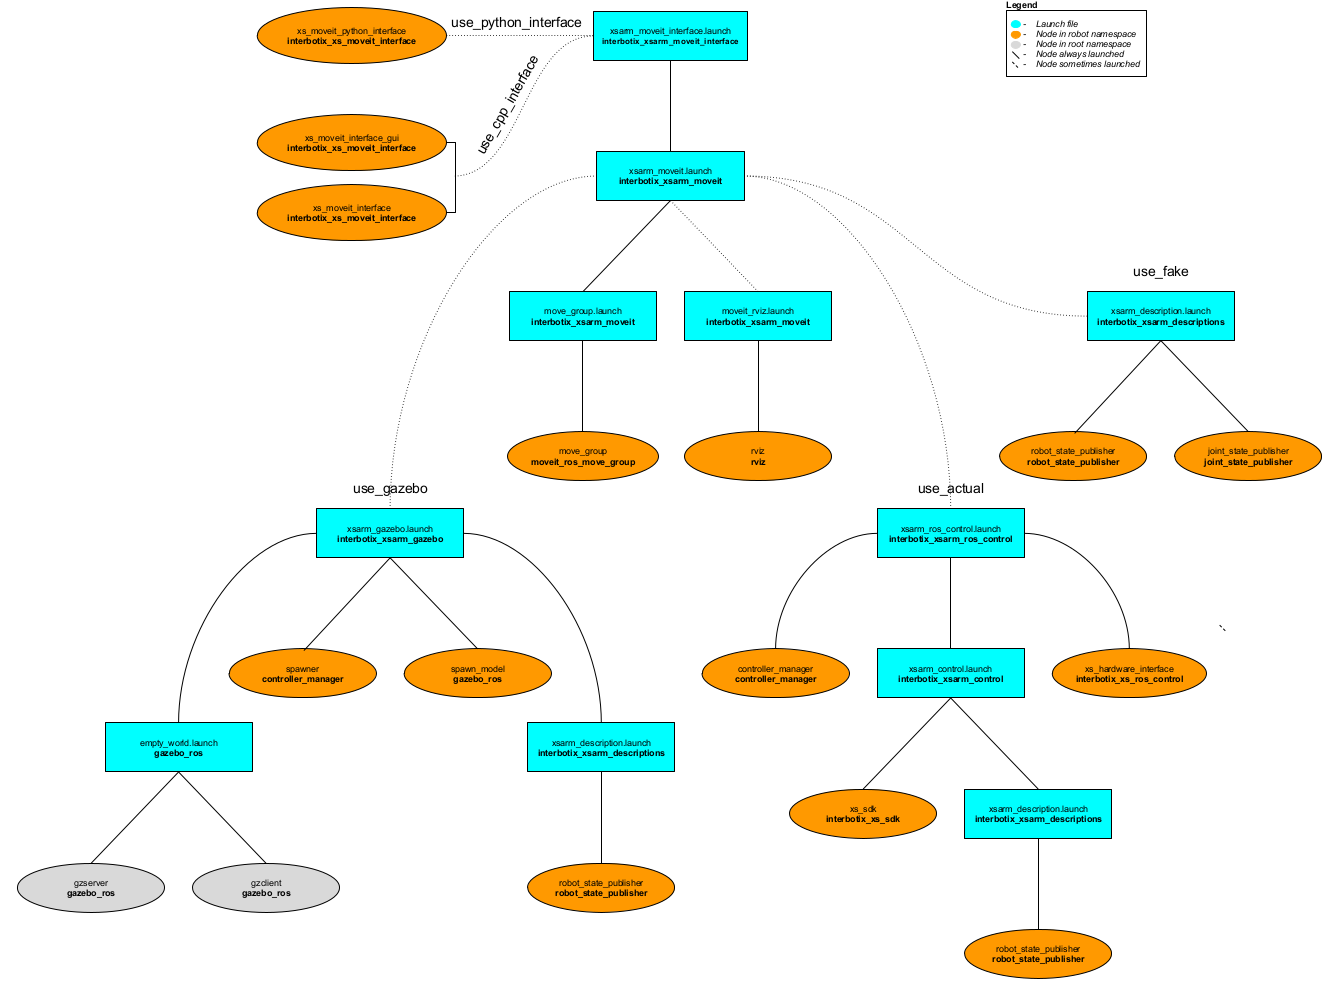
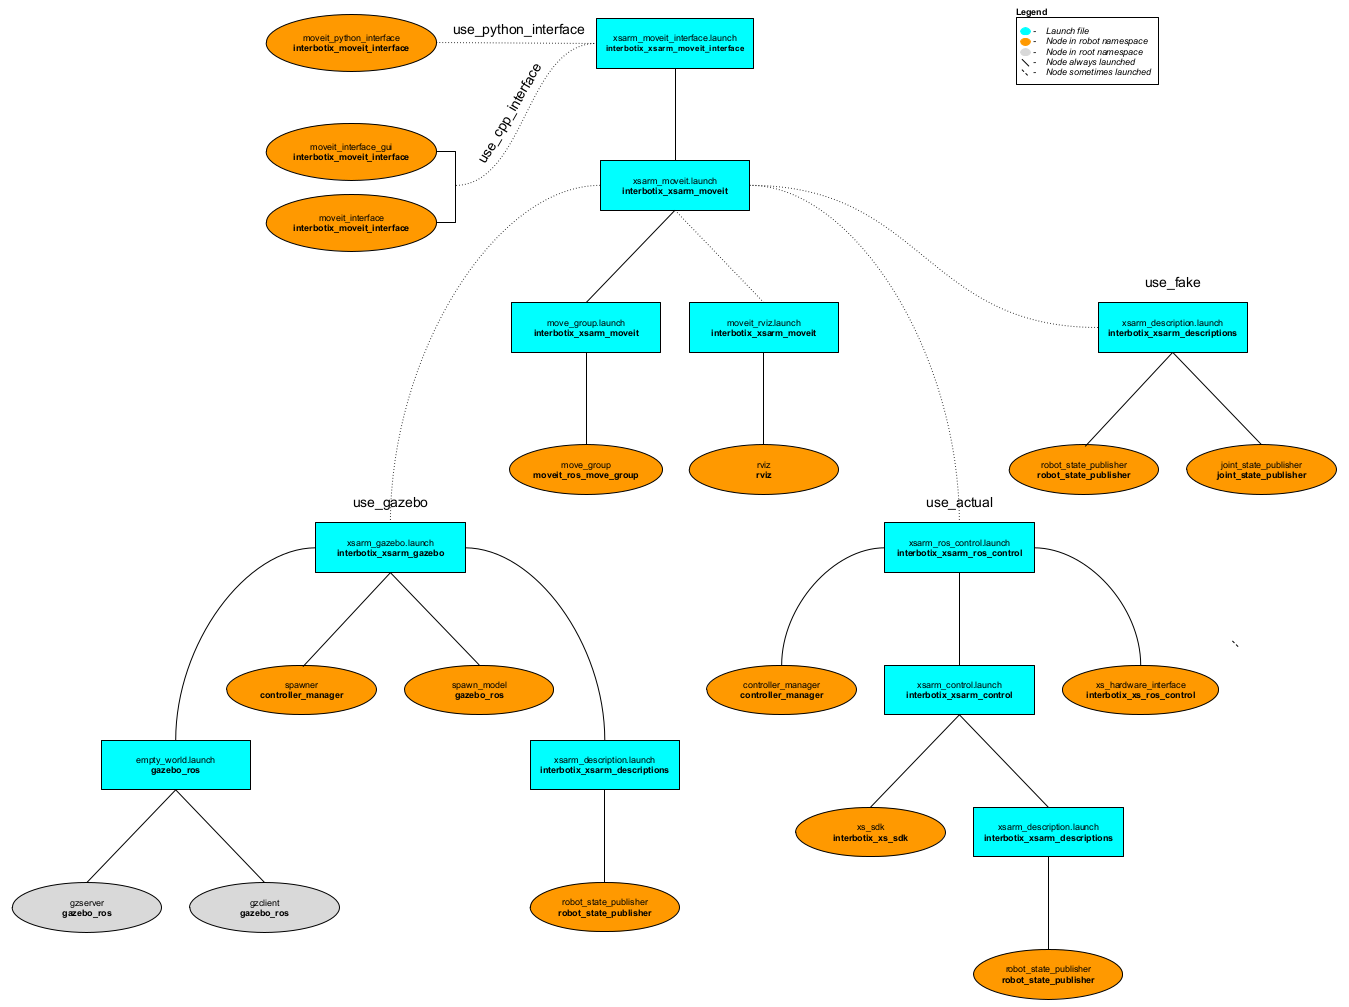
Changed dependency on the interbotix_xs_moveit_interface package to be instead on the interbotix_moveit_interface package. The interbotix_moveit_interface package is essentially the same thing as the interbotix_xs_moveit_interface package, but instead of only being able to be used on X-Series robot 

diff --git a/interbotix_ros_xsarms/examples/interbotix_xsarm_moveit_interface/README.md b/interbotix_ros_xsarms/examples/interbotix_xsarm_moveit_interface/README.md
@@ -8,11 +8,11 @@ Finally, this package also contains a modified version of the [Move Group Python
 ## Structure
 ![xsarm_moveit_interface_flowchart](images/xsarm_moveit_interface_flowchart.png)
 As shown above, this package builds on top of of the *interbotix_xsarm_moveit* package. To get familiar with that package, please refer to its README. The *interbotix_xsarm_moveit_interface* nodes are described below:
-- **xs_moveit_interface** - a small C++ API that makes it easier for a user to command custom poses to the end-effector of an Interbotix arm; it uses MoveIt's planner behind the scenes to generate desired joint trajectories;
-- **xs_moveit_interface_gui** - a GUI (modeled after the one in the *joint_state_publisher_gui* package) that allows a user to enter in desired end-effector poses via text fields or sliders; it uses the **xs_moveit_interface** API to plan and execute trajectories
-- **xs_moveit_python_interface** - a modified version of the script used in the [Move Group Python Interface](http://docs.ros.org/kinetic/api/moveit_tutorials/html/doc/move_group_python_interface/move_group_python_interface_tutorial.html) tutorial that is meant to work with an Interbotix arm; just press 'Enter' in the terminal to walk through the different steps
+- **moveit_interface** - a small C++ API that makes it easier for a user to command custom poses to the end-effector of an Interbotix arm; it uses MoveIt's planner behind the scenes to generate desired joint trajectories;
+- **moveit_interface_gui** - a GUI (modeled after the one in the *joint_state_publisher_gui* package) that allows a user to enter in desired end-effector poses via text fields or sliders; it uses the **moveit_interface** API to plan and execute trajectories
+- **moveit_python_interface** - a modified version of the script used in the [Move Group Python Interface](http://docs.ros.org/kinetic/api/moveit_tutorials/html/doc/move_group_python_interface/move_group_python_interface_tutorial.html) tutorial that is meant to work with an Interbotix arm; just press 'Enter' in the terminal to walk through the different steps; the desired joint state goal, pose goal, and end-effector offset (when attaching the box) are stored in YAML files located in the [config](config/) directory
 
-Note that all the nodes defined above live in the [interbotix_ros_toolboxes](https://github.com/Interbotix/interbotix_ros_toolboxes/tree/main/interbotix_xs_toolbox) repo. That is because these nodes, besides for being used here, are also used in other repositories (like *interbotix_ros_rovers*). To make it easier to maintain, it made more sense to keep one instance of them in the toolbox repository instead of having duplicates in multiple repositories.
+Note that all the nodes defined above live in the [interbotix_ros_toolboxes](https://github.com/Interbotix/interbotix_ros_toolboxes/tree/main/interbotix_moveit_toolbox) repo. That is because these nodes, besides for being used here, are also used in other repositories (like *interbotix_ros_rovers*). To make it easier to maintain, it made more sense to keep one instance of them in the toolbox repository instead of having duplicates in multiple repositories.
 
 ## Usage
 To run this package on the physical robot, type the line below in a terminal (assuming the ViperX 300 is being launched). Note that if you're using a 4 or 6 dof arm, you should set the `dof` launch file argument appropriately.
@@ -29,7 +29,7 @@ A GUI should pop-up similar to the one below. In it, a user should specify the d
 Note that occasionally, MoveIt will be unsuccessful in finding a valid trajectory. This could be for one of two reasons. Either the desired pose is not physically attainable by the arm or the random seed generated by MoveIt was a bad guess. If it is clear that the pose is physically attainable, try hitting the desired 'Plan' button a few more times.
 
 <p align="center">
-  <img width="461" height="320" src="images/xs_moveit_interface_gui.png">
+  <img width="461" height="320" src="images/moveit_interface_gui.png">
 </p>
 
 This is the bare minimum needed to get up and running. Take a look at the table below to see how to further customize with other launch file arguments.
@@ -51,6 +51,6 @@ This is the bare minimum needed to get up and running. Take a look at the table 
 | use_fake | launch MoveIt with a MoveIt generated fake robot | false |
 | dof | the degrees of freedom of the arm; while the majority of the arms have 5 dof, others have 4 or 6 dof | 5 |
 | world_name | the file path to the Gazebo 'world' file to load (if simulating) | refer to [xsarm_moveit.launch](launch/xsarm_moveit.launch) |
-| use_cpp_interface | launch the custom **xsmoveit_interface** C++ API node | false |
-| moveit_interface_gui | launch a custom GUI to interface with the **xsmoveit_interface** node so that the user can command specific end-effector poses (defined by 'ee_gripper_link') | true |
+| use_cpp_interface | launch the custom **moveit_interface** C++ API node | false |
+| moveit_interface_gui | launch a custom GUI to interface with the **moveit_interface** node so that the user can command specific end-effector poses (defined by 'ee_gripper_link') | true |
 | use_python_interface | launch the Python Interface Tutorial node | false |

diff --git a/interbotix_ros_xsarms/README.md b/interbotix_ros_xsarms/README.md
@@ -27,7 +27,7 @@ The ROS packages in this sub-repo build up from the *interbotix_xs_sdk* ROS wrap
 The *interbotix_xsarm_control* ROS package found in this layer holds the config files for every one of our X-Series arms. These config files define the names of the joints that make up each arm as well as initial values for the motor registers. The launch file inside the package then passes the appropriate parameters to the *interbotix_xs_sdk* driver node depending on the type of arm being used.
 
 ##### Application Support Layer
-The three main items shown in this layer can be found in the *interbotix_ros_toolboxes* repository [here](https://github.com/Interbotix/interbotix_ros_toolboxes/tree/main/interbotix_xs_toolbox). Specifically, the Arm IK Solver module can be found within the *interbotix_xs_modules* ROS package in a file called 'arm.py'. It essentially provides a small API to allow users to control an arm's end-effector in Python - no ROS experience necessary. Additionally, the *interbotix_xs_ros_control* and *interbotix_xs_moveit_interface* packages make it possible for the *interbotix_xsarm_ros_control* and *interbotix_xsarm_moveit_interface* packages respectively to function properly.
+The three main items shown in this layer can be found in the *interbotix_ros_toolboxes* repository [here](https://github.com/Interbotix/interbotix_ros_toolboxes/tree/main/interbotix_xs_toolbox). Specifically, the Arm IK Solver module can be found within the *interbotix_xs_modules* ROS package in a file called 'arm.py'. It essentially provides a small API to allow users to control an arm's end-effector in Python - no ROS experience necessary. Additionally, the *interbotix_xs_ros_control* and *interbotix_moveit_interface* packages make it possible for the *interbotix_xsarm_ros_control* and *interbotix_xsarm_moveit_interface* packages respectively to function properly.
 
 ##### Research Layer
 All the ROS packages and Python scripts found within the [examples](examples/) directory fall in this category.
